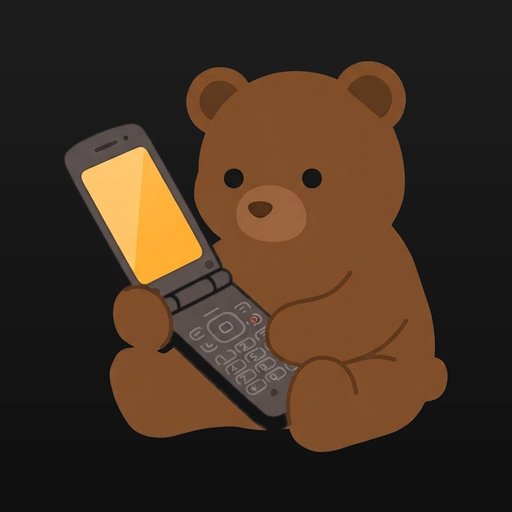
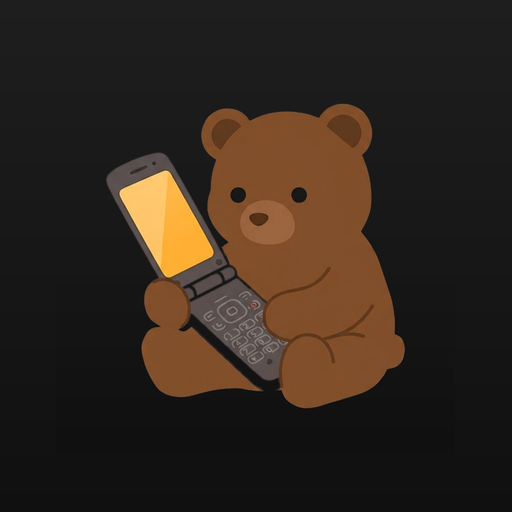
アイコンの絵を少し小さく
Claude-Session: https://claude.ai/code/session_018AqJEQkJoCbTvsm3dQsGPr

Changed region(s): [[0.125, 0.0938, 0.875, 0.9062], [0.5938, 0.625, 0.625, 0.6562]]

diff --git a/docs/index.html b/docs/index.html
@@ -164,7 +164,7 @@ function LGBar(nav,o){
 <div class="toast" id="toast"></div>
 <script>
 "use strict";
-const VERSION = "2026-11-22a";
+const VERSION = "2026-11-22b";
 const API_URL = "https://script.google.com/macros/s/AKfycbzLj1WVVsp_Y381rZHvkWM8RIqSIojozl7S2J0zHbDb8ioOI6-VDFV9UpNWZ6zSI-Pb/exec";
 const CLIENT_ID = "944595939498-b4ei4dlbcuap8v4o0ellepfj41m4j3j8.apps.googleusercontent.com";
 const VAPID = "BHtezYeb2IHihwwlphfDX6v8KM-cvxyr6_UBOEINt8t_DDfuC47Mz65hJ2t74aJCSSAVkMNb8_dkykCgJryvbZ8";
